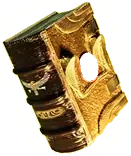
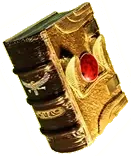
add animation to part2

Changed region(s): [[0.6107, 0.3333, 0.7634, 0.5385]]

diff --git a/assets/js/man1-animations.js b/assets/js/man1-animations.js
@@ -1,0 +1,70 @@
+import { gsap } from 'gsap';
+
+export function createBrightnessAnimation(selector, brightness = 1.3, duration = 2, ease = 'power2.inOut') {
+  const element = document.querySelector(selector);
+  
+  if (!element) {
+    console.warn(`Element with selector "${selector}" not found`);
+    return null;
+  }
+
+  // Set initial brightness to normal
+  gsap.set(element, { filter: 'brightness(1)' });
+
+  return gsap.fromTo(element, 
+    { filter: 'brightness(1)' },
+    { 
+      filter: `brightness(${brightness})`,
+      duration: duration,
+      yoyo: true,
+      repeat: -1,
+      ease: ease
+    }
+  );
+}
+
+export function createGoldenGlowAnimation(selector, glowSize = 20, duration = 2, ease = 'power2.inOut') {
+  const element = document.querySelector(selector);
+  
+  if (!element) {
+    console.warn(`Element with selector "${selector}" not found`);
+    return null;
+  }
+
+  // Set initial glow to minimal
+  gsap.set(element, { filter: 'drop-shadow(0 0 5px gold)' });
+
+  return gsap.fromTo(element, 
+    { filter: 'drop-shadow(0 0 5px gold)' },
+    { 
+      filter: `drop-shadow(0 0 ${glowSize}px gold)`,
+      duration: duration,
+      yoyo: true,
+      repeat: -1,
+      ease: ease
+    }
+  );
+}
+
+export function initMan1Animations() {
+  // Apply brightness animation to man1-part2 with custom parameters
+  createBrightnessAnimation('.man1 img[alt="man1-part2"]', 1.5, 2.2, 'power3.out');
+  
+  // Apply brightness animation to man3-part2 (faster)
+  createBrightnessAnimation('.man3 img[alt="man3-part2"]', 1.7, 1.2, 'power3.out');
+  
+  // Apply brightness animation to man4-part2 (slower)
+  createBrightnessAnimation('.man4 img[alt="man4-part2"]', 1.5, 2, 'power3.out');
+  
+  // Apply brightness animation to logo1-part2
+  createBrightnessAnimation('.logo1 img[alt="logo1-part2"]', 1.4, 2.4, 'power3.out');
+  
+  // Apply brightness animation to logo2-part2
+  createBrightnessAnimation('.logo2 img[alt="logo2-part2"]', 1.6, 1.4, 'power3.out');
+  
+  // Apply golden glow animation to man3-part1 (stronger glow)
+  createGoldenGlowAnimation('.man3 img[alt="man3-part1"]', 25, 1.2, 'power3.inOut');
+  
+  // Apply golden glow animation to man4-part1 (weaker glow)
+  createGoldenGlowAnimation('.man4 img[alt="man4-part1"]', 15, 2, 'power2.inOut');
+}

diff --git a/main.js b/main.js
@@ -1,5 +1,6 @@
 import { setupDevPanel } from './assets/js/dev-panel.js'
 import { getGameConfig, applyGameStyles } from './assets/js/config.js'
+import { initMan1Animations } from './assets/js/man1-animations.js'
 
 const isDevelopment = import.meta.env.DEV;
 let gameMode = localStorage.getItem('bookra_gameMode') || 'click';
@@ -37,3 +38,6 @@ const gameType = initializeGameType();
 if (isDevelopment) {
   setupDevPanel(gameMode, updateGameMode, isDevelopment);
 }
+
+// Initialize animations
+initMan1Animations();

diff --git a/index.html b/index.html
@@ -38,7 +38,8 @@
           <img src="./assets/images/man3-part2.webp" alt="man3-part2">
         </div>
         <div class="man1">
-          <img src="./assets/images/man1.webp" alt="man1">
+          <img src="./assets/images/man1-part1.webp" alt="man1-part1">
+          <img src="./assets/images/man1-part2.webp" alt="man1-part2">
         </div>
       </div>
       <div class="box2">

diff --git a/assets/js/config.js b/assets/js/config.js
@@ -33,7 +33,10 @@ export const gameConfig = {
   },
 
   characters: {
-    man1: './assets/images/man1.webp',
+    man1: {
+      part1: './assets/images/man1-part1.webp',
+      part2: './assets/images/man1-part2.webp'
+    },
     man2: './assets/images/man2.webp',
     man3: {
       part1: './assets/images/man3-part1.webp',

diff --git a/assets/css/layout.css b/assets/css/layout.css
@@ -84,7 +84,16 @@
   position: relative;
 }
 
-.man1 img, .man2 img {
+.man1 img {
+  position: absolute;
+  top: 0;
+  left: 0;
+  width: 100%;
+  height: 100%;
+  object-fit: contain;
+}
+
+.man2 img {
   width: 100%;
   height: 100%;
   object-fit: contain;
